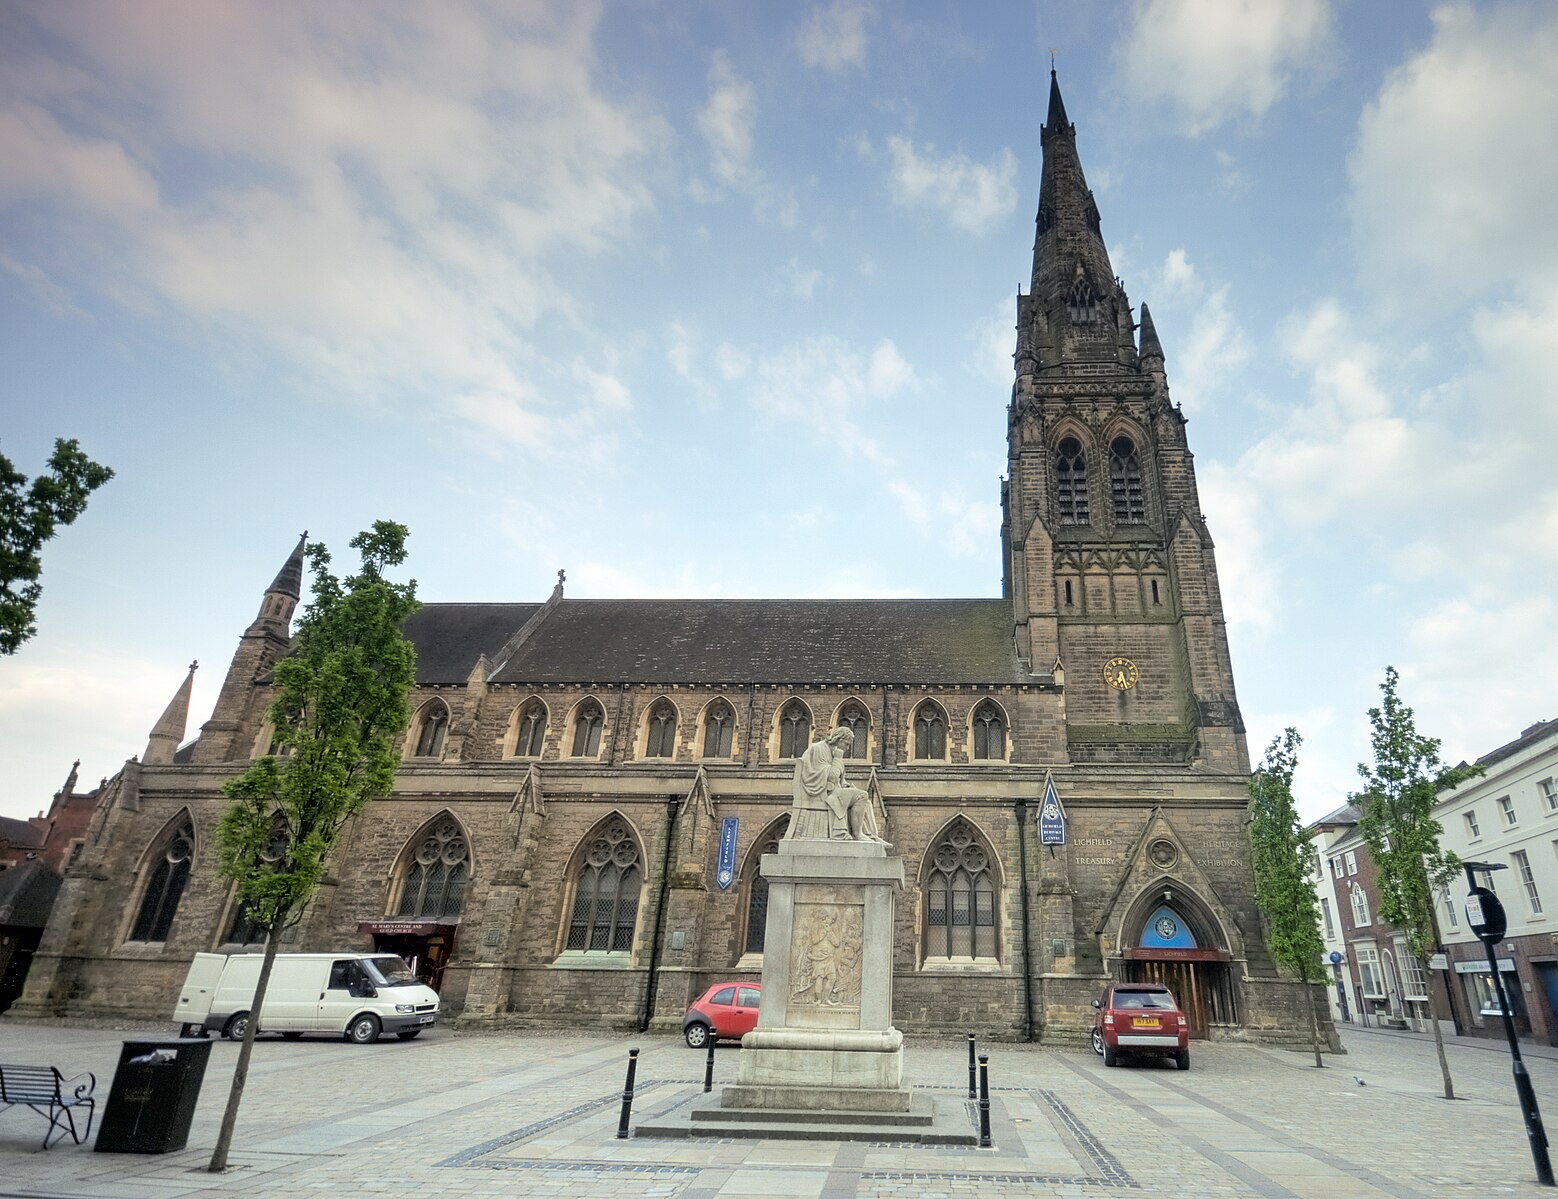
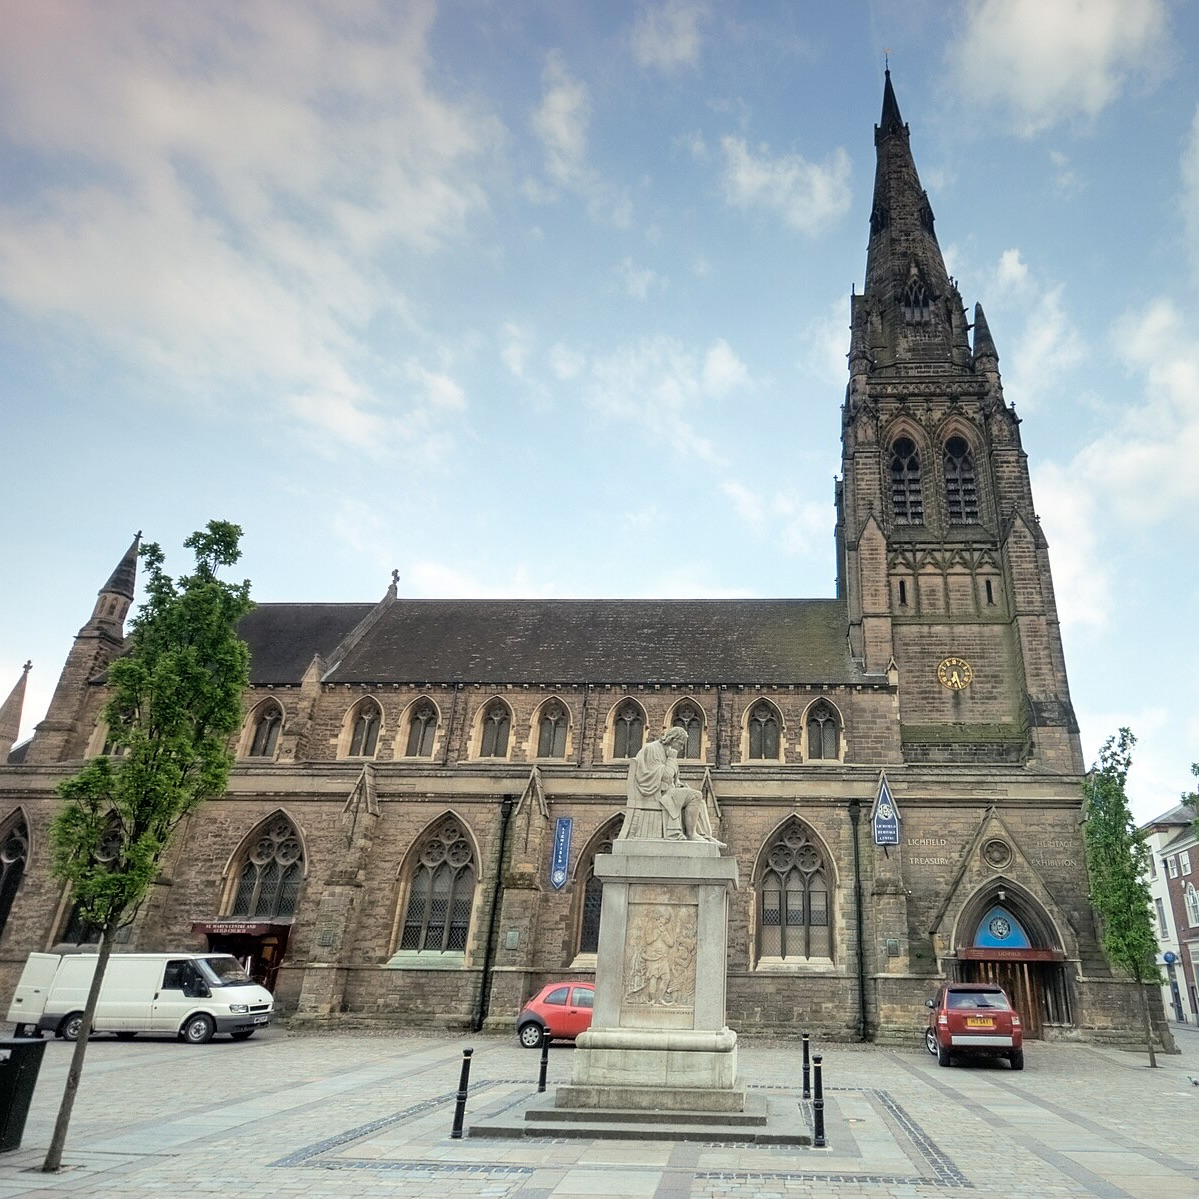
feat: resized some images to square ratio

diff --git a/index.html b/index.html
@@ -166,7 +166,7 @@
           <div class="card-body">
             <p class="card-text">
               <strong>Mr Arun</strong> is our head of Acrodance and body conditioning here at Dance Arts Centre. Mr
-              Arun graduated from Bird College with a first in Dance Education (BA). Hs passion lies in strength and body conditioning, and safe
+              Arun graduated from Bird College in 2017 with a first in Dance Education (BA). His passion lies in strength and body conditioning, and safe
               dance practise. He won gold at the UK Acrodance championship in 2019, 2021 and 2022. </p>
           </div>
         </div>
